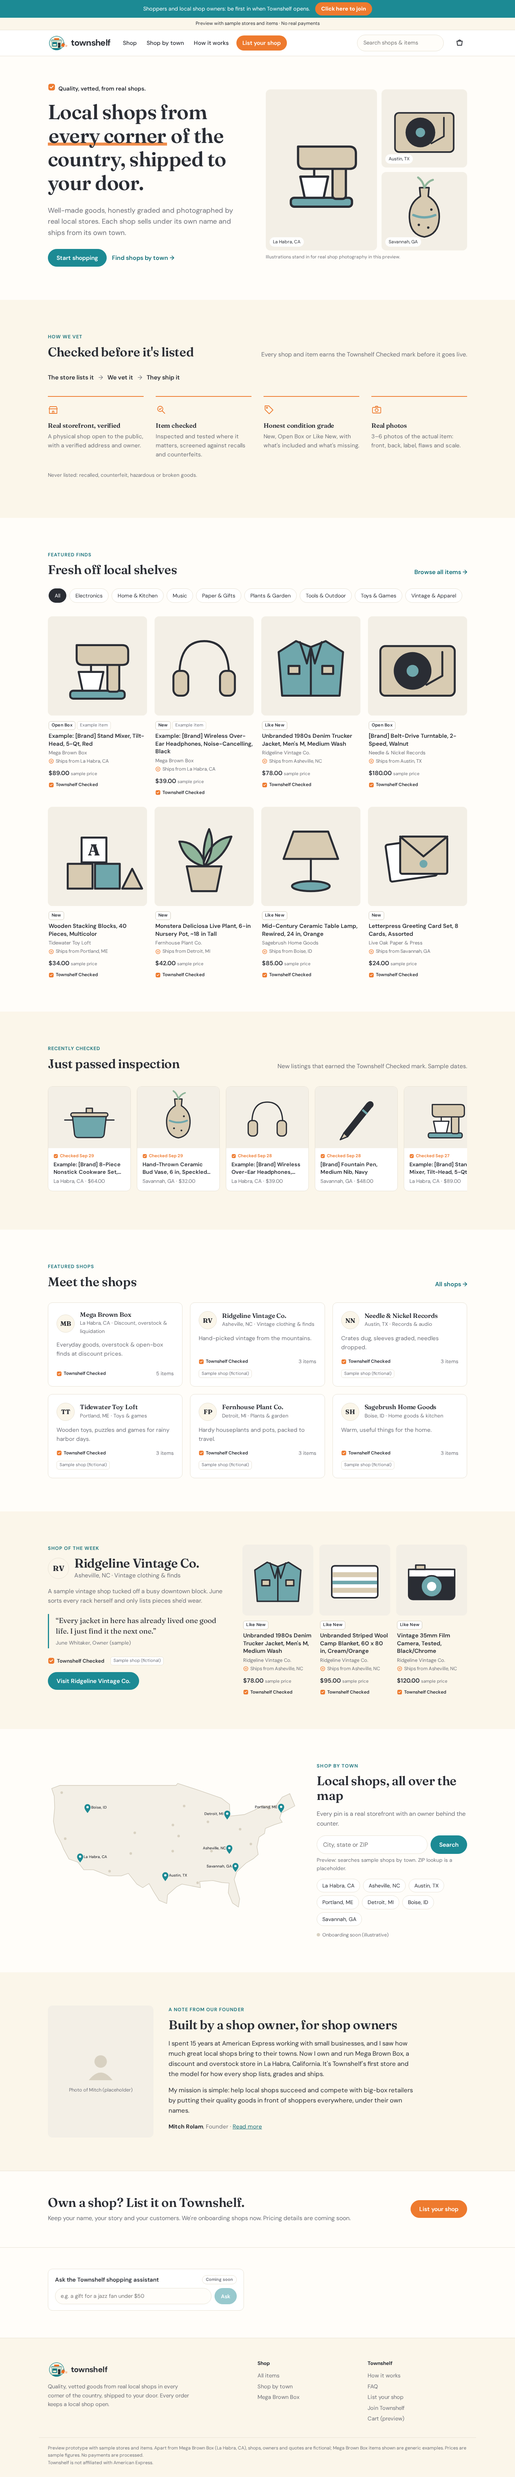
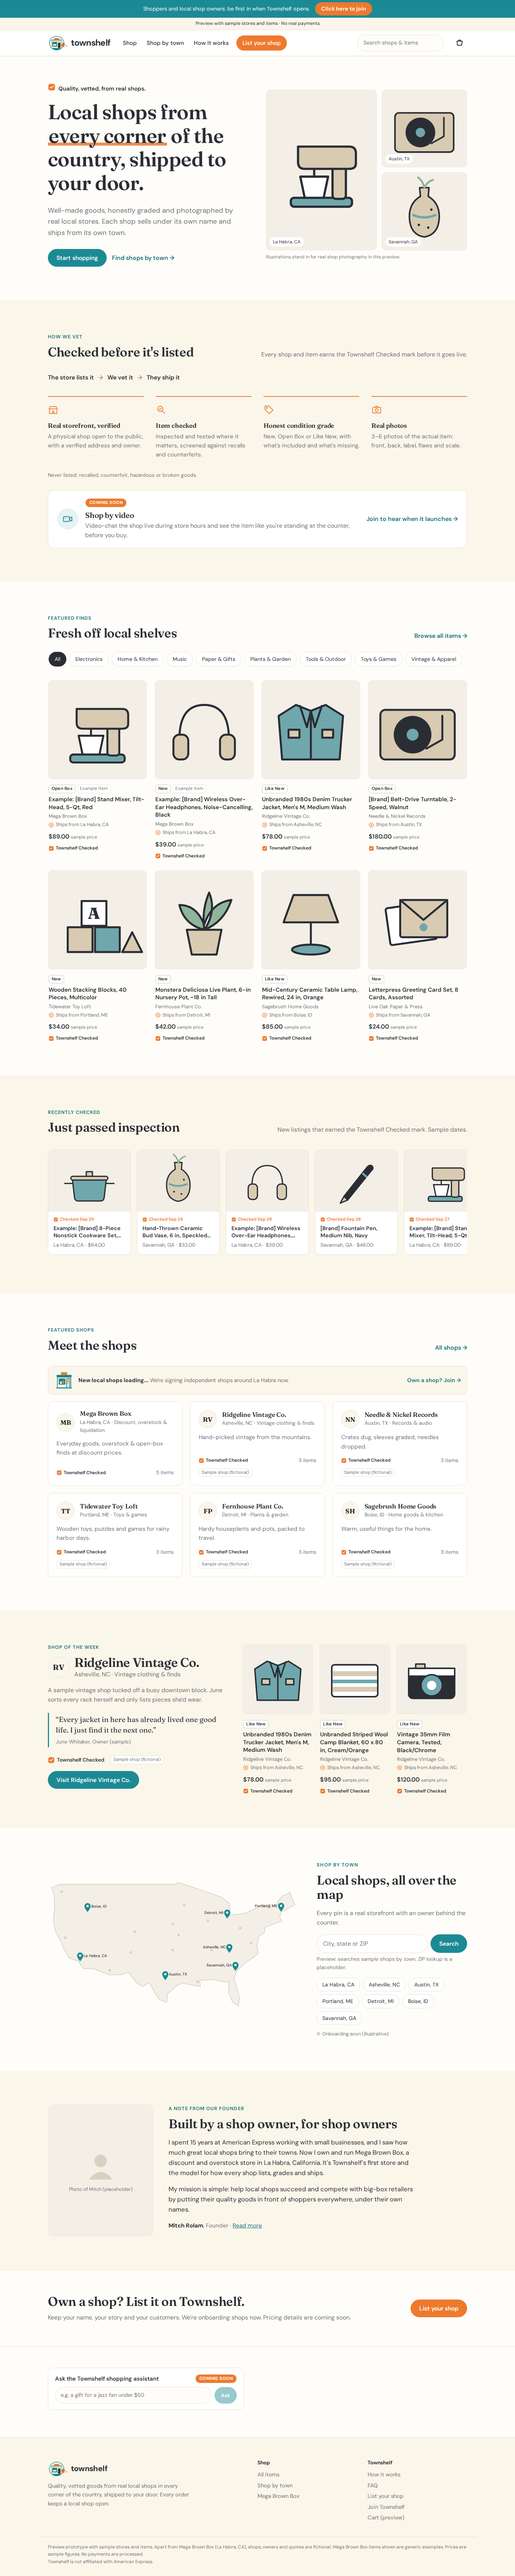
Add 'New local shops loading…' strip with animated storefront, 'Coming soon: Shop by video' teaser, fix browse mobile padding; SW cache v3

diff --git a/js/app.js b/js/app.js
@@ -209,7 +209,7 @@ TS.joinInit = function(){
   function open(){lastFocus=document.activeElement;m.classList.add("open");m.setAttribute("aria-hidden","false");document.documentElement.classList.add("join-lock");setTimeout(function(){var f=form.querySelector('[name="Name"]');if(f&&!m.querySelector(".join-thanks:not([hidden])"))f.focus();},50);}
   function close(){m.classList.remove("open");m.setAttribute("aria-hidden","true");document.documentElement.classList.remove("join-lock");if(location.hash==="#join")history.replaceState(null,"",location.pathname+location.search);if(lastFocus&&lastFocus.focus)lastFocus.focus();}
   TS.openJoin=open; TS.closeJoin=close;
-  document.addEventListener("click",function(e){var t=e.target.closest&&e.target.closest("[data-join]");if(t){e.preventDefault();open();}var c=e.target.closest&&e.target.closest("[data-join-close]");if(c){e.preventDefault();close();}});
+  document.addEventListener("click",function(e){var t=e.target.closest&&e.target.closest("[data-join]");if(t){e.preventDefault();var role=t.getAttribute("data-join-role");if(role){var r=form.querySelector('input[name="I am a"][value="'+role+'"]');if(r){r.checked=true;owner.hidden=role!=="Shop owner";}}open();}var c=e.target.closest&&e.target.closest("[data-join-close]");if(c){e.preventDefault();close();}});
   document.addEventListener("keydown",function(e){if(e.key==="Escape"&&m.classList.contains("open"))close();});
   window.addEventListener("hashchange",function(){if(location.hash==="#join")open();});
   if(location.hash==="#join")open();
@@ -231,6 +231,67 @@ TS.joinInit = function(){
       .catch(function(){err.innerHTML='Sorry, that didn\'t go through. Please try again, or email <a href="mailto:Mitch@megabrownbox.com">Mitch@megabrownbox.com</a>.';err.hidden=false;})
       .then(function(){btn.disabled=false;btn.textContent="Send";});
   });
+};
+
+/* ---------- "New local shops loading…" strip on shop listings ---------- */
+TS.loadingStrips = function(){
+  var slots=document.querySelectorAll("[data-loading-strip]");
+  for(var i=0;i<slots.length;i++){
+    var el=slots[i]; if(el.firstChild) continue;
+    el.className="loading-strip"+(el.getAttribute("data-tone")==="white"?" loading-strip-white":"");
+    el.setAttribute("role","note");
+    el.innerHTML=TS.shopIcon()+
+      '<p class="ls-text"><strong>New local shops loading<span class="ls-ellipsis" aria-hidden="true"><i>.</i><i>.</i><i>.</i></span></strong> '+
+      '<span>We\'re signing independent shops around La Habra now.</span></p>'+
+      '<a class="ls-link" href="#join" data-join data-join-role="Shop owner">Own a shop? Join <span aria-hidden="true">→</span></a>';
+    // Play the little "opening up" animation once, when the strip scrolls into view.
+    // Without JS or with reduced motion the shop is simply shown open.
+    if(!TS.reduced() && "IntersectionObserver" in window){
+      el.classList.add("ls-armed");
+      (function(strip){
+        var io=new IntersectionObserver(function(ents){ents.forEach(function(en){if(en.isIntersecting){strip.classList.add("ls-play");io.disconnect();}});},{threshold:.6});
+        io.observe(strip);
+      })(el);
+    }
+  }
+};
+/* tiny storefront in the logo style: orange roof sign, teal roof, cream front, display window with a roll-up blind,
+   glass door with a CLOSED/OPEN sign */
+TS.shopIcon = function(){
+  return '<svg class="ls-icon" viewBox="0 0 44 44" width="52" height="52" aria-hidden="true">'+
+   '<defs><clipPath id="lsWin"><rect x="10" y="18" width="15" height="14" rx="1.5"/></clipPath></defs>'+
+   '<rect x="15" y="4" width="14" height="6" rx="1.2" fill="#EE7A2E"/>'+
+   '<rect x="5" y="10" width="34" height="5" rx="2" fill="#1C8A94"/>'+
+   '<rect x="7" y="15" width="30" height="24" fill="#FBF6EA" stroke="#1C8A94" stroke-width="1.6"/>'+
+   '<rect x="10" y="18" width="15" height="14" rx="1.5" fill="#1C8A94"/>'+
+   '<g clip-path="url(#lsWin)"><rect x="13" y="25" width="4" height="5" rx=".6" fill="#FBF6EA"/><rect x="18.5" y="23" width="4" height="7" rx=".6" fill="#EE7A2E"/>'+
+   '<g class="ls-blind"><rect x="10" y="18" width="15" height="14" fill="#E7E1D3"/><path d="M10 21.5h15M10 25h15M10 28.5h15" stroke="#CFC6B2" stroke-width=".8"/></g></g>'+
+   '<rect x="27.5" y="18" width="7" height="21" rx="1" fill="#D7ECEC" stroke="#1C8A94" stroke-width="1.4"/>'+
+   '<circle cx="29.3" cy="29" r=".8" fill="#2A2D34"/>'+
+   '<path d="M28.6 20.9l2.4-1.8 2.4 1.8" fill="none" stroke="#2A2D34" stroke-width=".5"/>'+
+   '<g class="ls-sign ls-closed"><rect x="26.5" y="20.8" width="9" height="4.6" rx=".7" fill="#2A2D34"/><text x="31" y="24" text-anchor="middle" font-size="2.7" font-weight="700" fill="#fff" font-family="DM Sans,sans-serif">CLOSED</text></g>'+
+   '<g class="ls-sign ls-open"><rect x="26.5" y="20.8" width="9" height="4.6" rx=".7" fill="#EE7A2E"/><text x="31" y="24.1" text-anchor="middle" font-size="3.2" font-weight="700" fill="#fff" font-family="DM Sans,sans-serif">OPEN</text></g>'+
+   '<rect x="4" y="38.5" width="36" height="2" rx="1" fill="#1C8A94"/>'+
+   '</svg>';
+};
+
+/* ---------- "Coming soon: Shop by video" teaser (no functionality yet) ---------- */
+TS.videoIcon = function(sz){
+  return '<svg class="vid-ico" viewBox="0 0 28 28" width="'+sz+'" height="'+sz+'" fill="none" stroke="#1C8A94" stroke-width="1.8" stroke-linecap="round" stroke-linejoin="round" aria-hidden="true">'+
+    '<rect x="3" y="8" width="15" height="12" rx="2.5"/><path d="M18 12.5l6-3.5v10l-6-3.5"/><circle cx="7.2" cy="11.8" r="1" fill="#EE7A2E" stroke="none"/></svg>';
+};
+TS.soonPill = function(){return '<span class="soon-pill">Coming soon</span>';};
+TS.videoTeaser = function(){
+  return '<div class="vid-teaser">'+
+    '<div class="vid-teaser-ico">'+TS.videoIcon(30)+'</div>'+
+    '<div class="vid-teaser-body">'+TS.soonPill()+
+      '<h3>Shop by video</h3>'+
+      '<p>Video-chat the shop live during store hours and see the item like you\'re standing at the counter, before you buy.</p></div>'+
+    '<a class="link-arrow vid-teaser-link" href="#join" data-join>Join to hear when it launches →</a>'+
+  '</div>';
+};
+TS.videoLine = function(){
+  return '<div class="vid-line">'+TS.videoIcon(20)+'<p>'+TS.soonPill()+' <strong>Shop by video:</strong> video-chat the shop live during store hours and see this item like you\'re in the store. <a href="#join" data-join>Get notified</a></p></div>';
 };
 
 /* ---------- chrome ---------- */
@@ -263,6 +324,8 @@ TS.chrome = function(active){
    '<div class="drawer-foot"><a class="btn btn-primary" href="cart.html">View cart & checkout</a><button class="btn btn-ghost" onclick="TS.closeDrawer()">Keep shopping</button></div></aside></div>';
   TS.updateCount();
   TS.joinInit();
+  TS.loadingStrips();
+  var vt=document.getElementById("videoTeaser"); if(vt&&!vt.firstChild) vt.innerHTML=TS.videoTeaser();
   if(document.readyState==='loading'){document.addEventListener('DOMContentLoaded',function(){setTimeout(TS.reveal,0);});}else{setTimeout(TS.reveal,0);}
 };
 })();

diff --git a/css/style.css b/css/style.css
@@ -179,7 +179,7 @@ hr.rule{border:0;border-top:1px solid var(--line);margin:0}
 .page-head p{color:var(--muted);max-width:620px;margin:0;font-size:1.08rem}
 
 /* browse */
-.browse{display:grid;gap:32px;padding:40px 0 88px}
+.browse{display:grid;gap:32px;padding-top:40px;padding-bottom:88px}
 @media (min-width:900px){.browse{grid-template-columns:230px 1fr}}
 .filters{align-self:start}
 @media (min-width:900px){.filters{position:sticky;top:96px}}
@@ -445,3 +445,46 @@ hr.rule{border:0;border-top:1px solid var(--line);margin:0}
 .join-thanks{text-align:center;padding:20px 6px 8px;outline:none}
 .join-thanks h2{margin:12px 0 6px}
 .join-thanks p{color:var(--muted);margin:0 0 18px}
+
+/* "New local shops loading…" strip (shop listings) */
+.loading-strip{display:flex;align-items:center;gap:12px;flex-wrap:wrap;background:var(--cream);border:1px solid var(--line);border-radius:12px;padding:11px 16px;margin:0 0 18px;font-size:.92rem;color:var(--ink)}
+.loading-strip-white{background:#fff}
+.ls-icon{flex:none;display:block;width:52px;height:52px}
+/* open state is the default (no JS / reduced motion); JS "arms" it closed, then plays once in view */
+.ls-blind,.ls-sign{transform-box:fill-box}
+.ls-blind{transform-origin:50% 0;transform:scaleY(0)}
+.ls-sign{transform-origin:50% 50%}
+.ls-closed{transform:scaleX(0)}
+.ls-armed .ls-blind{transform:scaleY(1)}
+.ls-armed .ls-closed{transform:scaleX(1)}
+.ls-armed .ls-open{transform:scaleX(0)}
+.ls-armed.ls-play .ls-blind{animation:lsBlind .7s cubic-bezier(.5,0,.3,1) .1s forwards}
+.ls-armed.ls-play .ls-closed{animation:lsFlipOut .2s ease-in .8s forwards}
+.ls-armed.ls-play .ls-open{animation:lsFlipIn .25s ease-out 1s forwards}
+@keyframes lsBlind{from{transform:scaleY(1)}to{transform:scaleY(.06)}}
+@keyframes lsFlipOut{from{transform:scaleX(1)}to{transform:scaleX(0)}}
+@keyframes lsFlipIn{from{transform:scaleX(0)}to{transform:scaleX(1)}}
+.ls-text{margin:0;flex:1 1 260px;line-height:1.45}
+.ls-text strong{font-weight:700}
+.ls-text>span{color:var(--muted)}
+.ls-ellipsis i{font-style:normal;animation:lsDots 1.4s infinite both}
+.ls-ellipsis i:nth-child(2){animation-delay:.2s}.ls-ellipsis i:nth-child(3){animation-delay:.4s}
+@keyframes lsDots{0%,80%,100%{opacity:.2}40%{opacity:1}}
+.ls-link{flex:none;font-weight:600;color:var(--teal-d);text-decoration:none;white-space:nowrap}
+.ls-link:hover{text-decoration:underline}
+@media (max-width:640px){.loading-strip{align-items:flex-start;padding:12px 14px;gap:4px 12px}.ls-icon{width:46px;height:46px}.ls-text{flex-basis:calc(100% - 62px)}.ls-link{margin-left:58px}}
+@media (prefers-reduced-motion:reduce){.ls-ellipsis i,.ls-armed.ls-play .ls-blind,.ls-armed.ls-play .ls-sign{animation:none}.ls-ellipsis i{opacity:1}.ls-armed .ls-blind{transform:scaleY(0)}.ls-armed .ls-closed{transform:scaleX(0)}.ls-armed .ls-open{transform:scaleX(1)}}
+
+/* "Coming soon: Shop by video" teaser */
+.soon-pill{display:inline-block;background:var(--orange);color:#fff;font-size:.72rem;font-weight:700;letter-spacing:.04em;text-transform:uppercase;padding:3px 10px;border-radius:999px;vertical-align:2px;line-height:1.4}
+.vid-teaser{display:flex;align-items:center;gap:18px;flex-wrap:wrap;background:#fff;border:1px solid var(--line);border-radius:16px;padding:20px 24px;margin-top:28px}
+.vid-teaser-ico{flex:none;width:56px;height:56px;border-radius:50%;background:var(--teal-l);display:flex;align-items:center;justify-content:center}
+.vid-teaser-body{flex:1 1 320px}
+.vid-teaser-body h3{margin:8px 0 4px;font-size:1.25rem}
+.vid-teaser-body p{margin:0;color:var(--muted)}
+.vid-teaser-link{flex:none;font-weight:600}
+@media (max-width:640px){.vid-teaser{padding:18px;gap:14px;align-items:flex-start}.vid-teaser-ico{width:46px;height:46px}.vid-teaser-body{flex-basis:calc(100% - 60px)}.vid-teaser-link{margin-left:60px}}
+.vid-line{display:flex;gap:10px;align-items:flex-start;background:var(--cream);border:1px solid var(--line);border-radius:12px;padding:12px 14px;margin:0 0 18px;font-size:.88rem}
+.vid-line .vid-ico{flex:none;margin-top:2px}
+.vid-line p{margin:0;line-height:1.5}
+.vid-line .soon-pill{margin-right:4px}

diff --git a/item.html b/item.html
@@ -40,6 +40,7 @@ else{
     '<a class="sold-by" href="store.html?id='+st.slug+'">'+TS.storeLogo(st,48)+'<div><small>Sold & shipped by</small><strong>'+E(st.name)+'</strong><small>'+E(st.town)+', '+E(st.state)+(st.verified?' · Verified storefront':'')+'</small></div></a>'+
     '<button class="btn btn-primary" style="width:100%;font-size:1.05rem;padding:15px" id="add">Add to cart</button>'+
     '<p class="muted small" style="text-align:center;margin:8px 0 18px">Preview only · no payment will be taken</p>'+
+    TS.videoLine()+
     '<div class="lt-sec"><h3>Shipping & returns</h3><div class="ship-row">'+TS.postmark(st.town,st.state)+'<ul class="facts" style="flex:1">'+
       '<li><span>Ships from</span><span><strong>'+E(st.town)+', '+E(st.state)+'</strong></span></li>'+
       '<li><span>Ships by</span><span>'+(it.shipBy?E(it.shipBy):'<span class="placeholder">[ship-by window TBD]</span>')+'</span></li>'+

diff --git a/index.html b/index.html
@@ -29,6 +29,7 @@
     <div class="vet"><svg viewBox="0 0 28 28" fill="none" stroke="#EE7A2E" stroke-width="1.8" stroke-linecap="round" stroke-linejoin="round"><rect x="3" y="8" width="22" height="15" rx="2"/><circle cx="14" cy="15.5" r="4"/><path d="M10 8l1.5-3h5L18 8"/></svg><h3>Real photos</h3><p>3–6 photos of the actual item: front, back, label, flaws and scale.</p></div>
   </div>
   <p class="fine">Never listed: recalled, counterfeit, hazardous or broken goods.</p>
+  <div id="videoTeaser"></div>
 </div></section>
 
 <section><div class="wrap">
@@ -44,6 +45,7 @@
 
 <section><div class="wrap">
   <div class="sec-head"><div><div class="eyebrow">Featured shops</div><h2>Meet the shops</h2></div><a class="link-arrow" href="browse.html#towns">All shops →</a></div>
+  <div data-loading-strip></div>
   <div class="store-grid" id="featuredStores"></div>
 </div></section>
 

diff --git a/browse.html b/browse.html
@@ -22,12 +22,14 @@
   <div>
     <div id="catChips"></div>
     <div class="result-bar"><strong id="count"></strong><span class="muted small">Sample items · prices are placeholders</span></div>
+    <div data-loading-strip></div>
     <div class="grid" id="results"></div>
     <div class="empty" id="empty" style="display:none"><h3>No matches on these shelves yet</h3><p class="muted">Try clearing a filter.</p></div>
   </div>
 </div>
 <section class="sec-cream" id="towns"><div class="wrap">
   <div class="sec-head"><div><div class="eyebrow">Shop by town</div><h2>All shops</h2></div></div>
+  <div data-loading-strip data-tone="white"></div>
   <div class="store-grid" id="allStores"></div>
 </div></section>
 </main>

diff --git a/sw.js b/sw.js
@@ -1,6 +1,6 @@
 /* Townshelf service worker: caches the site shell + sample data for offline use.
    Bump VERSION whenever shell files change; old caches are removed on activate. */
-const VERSION = "townshelf-v2";
+const VERSION = "townshelf-v3";
 const SHELL = [
   "./", "index.html", "browse.html", "store.html", "item.html", "cart.html", "list-your-shop.html", "about.html",
   "css/style.css", "js/app.js", "js/art.js", "js/pwa.js", "data/data.js",

diff --git a/tools/loading_strip_check.py b/tools/loading_strip_check.py
@@ -1,0 +1,44 @@
+"""Screenshot the 'New local shops loading…' strip (home + browse, desktop + mobile) and check the
+'Own a shop? Join' link opens the join form preset to Shop owner. FormSubmit is blocked: nothing is sent."""
+import asyncio, sys
+from playwright.async_api import async_playwright
+BASE = sys.argv[1] if len(sys.argv) > 1 else "http://127.0.0.1:8765"
+OUT = "screenshots"
+async def main():
+    async with async_playwright() as p:
+        b = await p.chromium.launch(); errs = []
+        for name, vp, mob in [("desktop", {"width": 1280, "height": 800}, False), ("mobile", {"width": 390, "height": 844}, True)]:
+            for rm in ("no-preference", "reduce"):
+                ctx = await b.new_context(viewport=vp, device_scale_factor=2 if mob else 1, is_mobile=mob, has_touch=mob, reduced_motion=rm)
+                await ctx.route("https://formsubmit.co/**", lambda r: r.abort())
+                pg = await ctx.new_page(); pg.on("pageerror", lambda e: errs.append(str(e)))
+                await pg.goto(BASE + "/index.html", wait_until="networkidle")
+                n_home = await pg.locator(".loading-strip").count()
+                STATE = "(()=>{const s=document.querySelector('.loading-strip');const b=getComputedStyle(s.querySelector('.ls-blind')).transform;const o=getComputedStyle(s.querySelector('.ls-open')).transform;return {classes:s.className,blind:b,openSign:o}})()"
+                anim = await pg.evaluate(STATE)
+                if rm == "reduce":
+                    print(name, "| reduced motion (should be open, not armed):", anim); await ctx.close(); continue
+                print(name, "| before scroll (armed, closed):", anim)
+                logo = await pg.evaluate("(()=>{const i=document.querySelector('.topbar .brand img');const r=i.getBoundingClientRect();return [i.naturalWidth,i.naturalHeight,Math.round(r.width*10)/10,r.height]})()")
+                sec = pg.locator("#featuredStores").locator("xpath=ancestor::section[1]")
+                await pg.evaluate("(()=>{const s=document.querySelector('.loading-strip');scrollTo(0,s.getBoundingClientRect().top+scrollY-200)})()"); await pg.wait_for_timeout(1800)
+                print(name, "| after animation (open):", await pg.evaluate(STATE))
+                await pg.screenshot(path=f"{OUT}/loading-strip-{name}.png")   # viewport, header logo checked above
+                # frozen frames: closed (t=0), mid-animation (blind half up), sign flipping
+                strip = pg.locator(".loading-strip").first
+                for label, t in [("start", 0), ("mid", 450), ("flip", 950)]:
+                    await pg.evaluate("t=>{const s=document.querySelector('.loading-strip');s.classList.remove('ls-play');void s.offsetWidth;s.classList.add('ls-play');document.getAnimations().forEach(a=>{if(s.contains(a.effect.target)){a.pause();a.currentTime=t}})}", t)
+                    await strip.screenshot(path=f"{OUT}/loading-strip-{name}-{label}.png")
+                await pg.evaluate("document.getAnimations().forEach(a=>{try{a.finish()}catch(e){a.play()}})")
+                await pg.click(".loading-strip .ls-link"); await pg.wait_for_selector("#join.open")
+                role = await pg.evaluate("(document.querySelector('input[name=\"I am a\"]:checked')||{}).value")
+                owner = await pg.evaluate("!document.querySelector('.join-owner').hidden")
+                await pg.goto(BASE + "/browse.html", wait_until="networkidle"); await pg.wait_for_timeout(1200)
+                n_browse = await pg.locator(".loading-strip").count()
+                await pg.evaluate("(()=>{const s=document.querySelector('.loading-strip');scrollTo(0,s.getBoundingClientRect().top+scrollY-160)})()"); await pg.wait_for_timeout(1800)
+                await pg.screenshot(path=f"{OUT}/loading-strip-browse-{name}.png")
+                overflow = await pg.evaluate("document.documentElement.scrollWidth>innerWidth")
+                print(name, "| strips home/browse:", n_home, n_browse, "| anim:", anim, "| join role preset:", role, "owner fields shown:", owner, "| logo natural/rendered:", logo, "| h-overflow:", overflow)
+                await ctx.close()
+        print("page errors:", errs or "none"); await b.close()
+asyncio.run(main())

diff --git a/tools/teaser_check.py b/tools/teaser_check.py
@@ -1,0 +1,24 @@
+"""Screenshot the 'Coming soon: Shop by video' teaser (home + item page, desktop + mobile)."""
+import asyncio, sys
+from playwright.async_api import async_playwright
+BASE = sys.argv[1] if len(sys.argv) > 1 else "http://127.0.0.1:8765"
+OUT = "screenshots"
+async def main():
+    async with async_playwright() as p:
+        b = await p.chromium.launch(); errs = []
+        for name, vp, mob in [("desktop", {"width": 1280, "height": 800}, False), ("mobile", {"width": 390, "height": 844}, True)]:
+            ctx = await b.new_context(viewport=vp, device_scale_factor=2 if mob else 1, is_mobile=mob, has_touch=mob, reduced_motion="reduce")
+            await ctx.route("https://formsubmit.co/**", lambda r: r.abort())
+            pg = await ctx.new_page(); pg.on("pageerror", lambda e: errs.append(str(e)))
+            await pg.goto(BASE + "/index.html", wait_until="networkidle")
+            await pg.evaluate("(()=>{const t=document.querySelector('.vid-teaser');scrollTo(0,t.getBoundingClientRect().top+scrollY-(innerHeight-t.offsetHeight)/2)})()")
+            await pg.wait_for_timeout(400); await pg.screenshot(path=f"{OUT}/teaser-{name}.png")
+            await pg.click(".vid-teaser-link"); opened = await pg.evaluate("document.getElementById('join').classList.contains('open')")
+            await pg.goto(BASE + "/item.html?id=lo-bud-vase", wait_until="networkidle")
+            await pg.evaluate("(()=>{const t=document.querySelector('.vid-line');scrollTo(0,t.getBoundingClientRect().top+scrollY-260)})()")
+            await pg.wait_for_timeout(400); await pg.screenshot(path=f"{OUT}/teaser-item-{name}.png")
+            ov = await pg.evaluate("document.documentElement.scrollWidth>innerWidth")
+            print(name, "| teaser link opens join form:", opened, "| item line present:", await pg.locator(".vid-line").count(), "| h-overflow:", ov)
+            await ctx.close()
+        print("page errors:", errs or "none"); await b.close()
+asyncio.run(main())

diff --git a/README.md b/README.md
@@ -95,6 +95,14 @@ Submissions are sent with [FormSubmit](https://formsubmit.co) (AJAX endpoint `ht
 
 Test without sending anything: `python3 tools/join_check.py` (FormSubmit is mocked).
 
+## "New local shops loading…" strip
+
+A small cream strip sits above the home page "Featured shops" grid and above both listing grids on Browse. It has a tiny storefront icon in the logo style, an animated ellipsis, and an "Own a shop? Join" link that opens the join form with **Shop owner** already selected. When the strip scrolls into view the storefront plays a one-time ~1.25 s "opening" animation (the window blind rolls up and the door sign flips from CLOSED to OPEN). With `prefers-reduced-motion` (or no JS) it is shown already open and nothing moves. Add a strip anywhere with `<div data-loading-strip></div>` (`data-tone="white"` on cream sections). Test: `python3 tools/loading_strip_check.py`.
+
+## "Coming soon: Shop by video" teaser
+
+A teaser card in the home page "How we vet" section and a small line on every item page announce the planned Shop by video feature (video-chat the shop live during store hours before buying). It is a teaser only, with no working video features; the links open the join form. Rendered by `TS.videoTeaser()` and `TS.videoLine()` in `js/app.js`. Test: `python3 tools/teaser_check.py`.
+
 ## Installable web app (PWA)
 
 - `manifest.webmanifest`: name/short name "Townshelf", `start_url` and `scope` set to `/townshelf-site/` (the GitHub Pages path), standalone display, cream background (`#FBF6EA`), teal theme (`#1C8A94`), icons at 192 and 512 plus maskable versions in `assets/icons/`.
